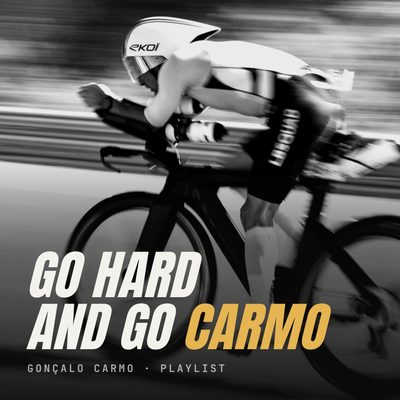
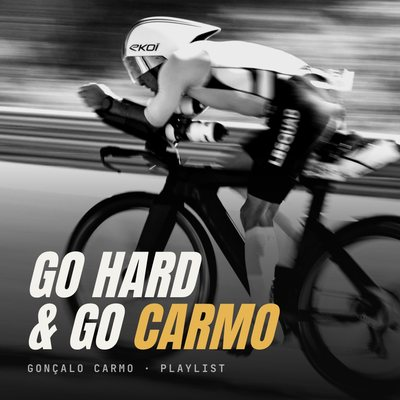
Playlist name: Go Hard & Go Carmo (cover, labels, README)
Claude-Session: https://claude.ai/code/session_01U6TryHJX4Q26K6Xqs1ogYW

Changed region(s): [[0.06, 0.75, 0.84, 0.9]]

diff --git a/index.html b/index.html
@@ -298,10 +298,10 @@
         <div class="pl-stage">
           <div class="pl-face">
             <div class="pl-head">
-              <picture class="pl-cover"><source type="image/webp" srcset="assets/img/playlist-400.webp 400w, assets/img/playlist-800.webp 800w" sizes="(max-width: 760px) 96px, 136px"><img src="assets/img/playlist-400.jpg" alt="Capa da playlist Go Hard and Go Carmo: o Gonçalo de bicicleta, em posição aero" width="800" height="800" loading="lazy" data-i18n-attr="alt:pl.alt"></picture>
+              <picture class="pl-cover"><source type="image/webp" srcset="assets/img/playlist-400.webp 400w, assets/img/playlist-800.webp 800w" sizes="(max-width: 760px) 96px, 136px"><img src="assets/img/playlist-400.jpg" alt="Capa da playlist Go Hard &amp; Go Carmo: o Gonçalo de bicicleta, em posição aero" width="800" height="800" loading="lazy" data-i18n-attr="alt:pl.alt"></picture>
               <div>
                 <p class="pl-k" data-i18n="pl.kind">Playlist no Spotify</p>
-                <p class="pl-name" id="pl-name">Go Hard and Go Carmo</p>
+                <p class="pl-name" id="pl-name">Go Hard &amp; Go Carmo</p>
                 <p class="pl-sub">Gonçalo Carmo · <span id="pl-count">31 músicas</span></p>
               </div>
             </div>
@@ -312,7 +312,7 @@
             </div>
           </div>
           <div class="pl-frame" id="pl-frame">
-            <span class="pl-tag" aria-hidden="true">Go Hard and Go Carmo</span>
+            <span class="pl-tag" aria-hidden="true">Go Hard &amp; Go Carmo</span>
             <button type="button" class="pl-x" id="pl-x" hidden aria-label="Fechar o leitor" data-i18n-attr="aria-label:a.plx">×</button>
           </div>
         </div>

diff --git a/assets/js/data.js b/assets/js/data.js
@@ -15,7 +15,7 @@ export const SITE = {
   payee: 'Gonçalo Carmo',
   // Optional: the phone number linked to MB WAY (e.g. '916395103'). Leave empty to hide it.
   mbway: '',
-  // The public Spotify link of "Go Hard and Go Carmo" (Share > Copy link to playlist). While it is empty the
+  // The public Spotify link of "Go Hard & Go Carmo" (Share > Copy link to playlist). While it is empty the
   // "Ouve o que eu ouço" block does not show. On a local server (localhost or the home network), ?playlist=<link>
   // previews any public playlist or track; public hosts ignore it.
   playlist: '',
@@ -25,7 +25,7 @@ export const SITE = {
 // The playlist as it is on Spotify: shown on the cover card before anything loads from Spotify.
 // `phases` is the running order, in tracks; keep it in step with the playlist if it changes.
 export const PLAYLIST = {
-  name: 'Go Hard and Go Carmo',
+  name: 'Go Hard & Go Carmo',
   artists: ['Plutónio', 'Dillaz', 'X-Tense', 'GROGNation', 'Regula', 'Papillon', 'Drake', 'Justin Bieber', 'J. Cole', 'Tems'],
   phases: [
     { k: 'warm', pt: 'Aquecimento', en: 'Warm-up', n: 6 },

diff --git a/assets/js/i18n.js b/assets/js/i18n.js
@@ -92,7 +92,7 @@ const EN = {
   "pl.k": "Soundtrack",
   "pl.h": "Hear what I hear.",
   "pl.p": "It's what I listen to when I train: mostly Portuguese rap, with Drake, Justin Bieber, J. Cole and Tems in between. It runs like a session, with a warm-up, a build, a peak and a cool-down.",
-  "pl.alt": "Cover of the Go Hard and Go Carmo playlist: Gonçalo on the bike, in the aero position",
+  "pl.alt": "Cover of the Go Hard & Go Carmo playlist: Gonçalo on the bike, in the aero position",
   "pl.kind": "Spotify playlist",
   "pl.play": "Listen here",
   "pl.dock": "Listen while you browse",

diff --git a/README.md b/README.md
@@ -74,7 +74,7 @@ põe o logótipo no peito.
 
 ## Ligar a playlist (uma vez)
 
-1. No Spotify, com a playlist **Go Hard and Go Carmo** pública: Partilhar → Copiar link da playlist.
+1. No Spotify, com a playlist **Go Hard & Go Carmo** pública: Partilhar → Copiar link da playlist.
 2. Cola o link em `assets/js/data.js` → `SITE.playlist` (por exemplo `'https://open.spotify.com/playlist/…'`) e faz push.
    O `?si=…` do fim pode ficar, o site ignora-o.
 3. Se a playlist mudar de tamanho ou de ordem, atualiza `PLAYLIST.phases` (músicas por fase) no mesmo ficheiro.
